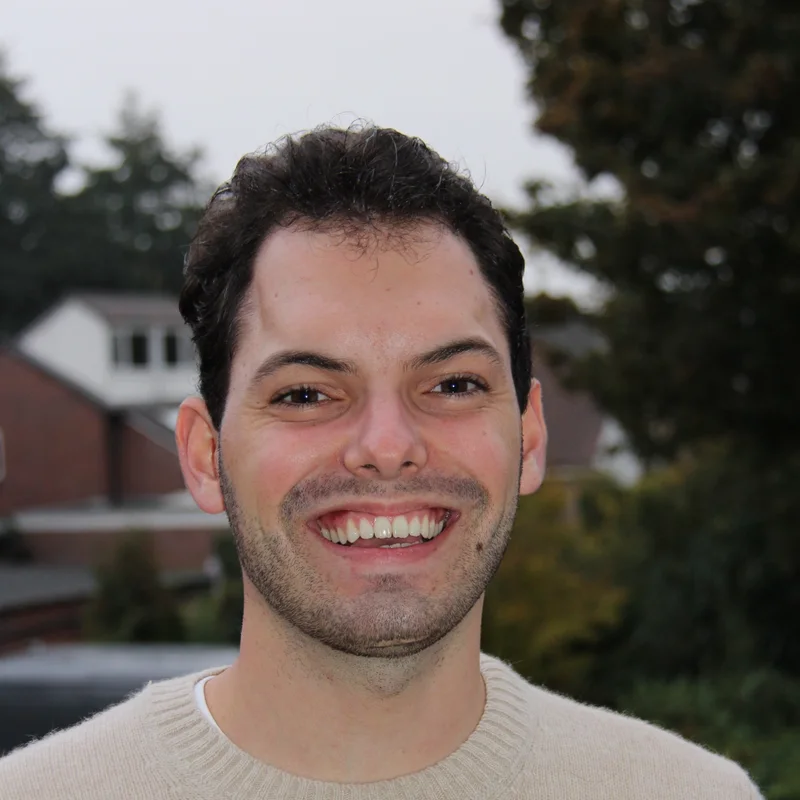
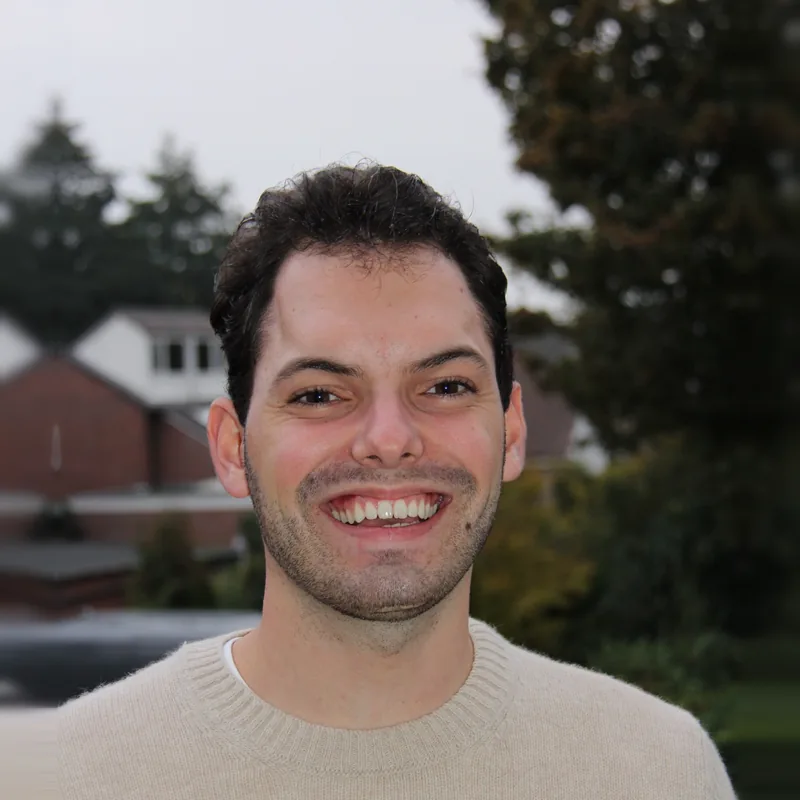
Portret Koen iets uitgezoomd
Claude-Session: https://claude.ai/code/session_01Wjimqdua8ajpxHo7PcBrAk

diff --git a/over-ons.html b/over-ons.html
@@ -25,7 +25,7 @@
 <meta name="theme-color" content="#26458F">
 <link rel="stylesheet" href="/assets/style.css?v=126">
 <script type="application/ld+json">
-{"@context":"https://schema.org","@type":"AboutPage","name":"Over ons","url":"https://avezaatenevers.nl/over-ons.html","about":{"@id":"https://avezaatenevers.nl/#organisatie"},"mainEntity":[{"@type":"Person","name":"Koen Avezaat","jobTitle":"Mede-oprichter en boekhouder","worksFor":{"@id":"https://avezaatenevers.nl/#organisatie"},"image":"https://avezaatenevers.nl/assets/img/koen.webp?v=3","knowsAbout":["Bedrijfskunde","Boekhouding"]},{"@type":"Person","name":"Daan Evers","jobTitle":"Mede-oprichter en boekhouder","worksFor":{"@id":"https://avezaatenevers.nl/#organisatie"},"image":"https://avezaatenevers.nl/assets/img/daan.webp?v=3","knowsAbout":["Accountancy","Control"]}]}
+{"@context":"https://schema.org","@type":"AboutPage","name":"Over ons","url":"https://avezaatenevers.nl/over-ons.html","about":{"@id":"https://avezaatenevers.nl/#organisatie"},"mainEntity":[{"@type":"Person","name":"Koen Avezaat","jobTitle":"Mede-oprichter en boekhouder","worksFor":{"@id":"https://avezaatenevers.nl/#organisatie"},"image":"https://avezaatenevers.nl/assets/img/koen.webp?v=4","knowsAbout":["Bedrijfskunde","Boekhouding"]},{"@type":"Person","name":"Daan Evers","jobTitle":"Mede-oprichter en boekhouder","worksFor":{"@id":"https://avezaatenevers.nl/#organisatie"},"image":"https://avezaatenevers.nl/assets/img/daan.webp?v=3","knowsAbout":["Accountancy","Control"]}]}
 </script>
 </head>
 <body>
@@ -66,7 +66,7 @@
       <p>Dat kan makkelijker. Daarom begonnen we Avezaat &amp; Evers. Bij ons maak je een foto van je bonnetje en staat alles veilig online. En je krijgt één van ons als vaste boekhouder: iemand die weet hoe jouw bedrijf loopt, die je gewoon kunt appen en die zelf aan de bel trekt als er iets geregeld moet worden.</p>
     </div>
     <div class="wij-duo">
-      <figure><img src="/assets/img/koen.webp?v=3" alt="Koen Avezaat" width="800" height="800"><figcaption><strong>Koen Avezaat</strong>Mede-oprichter en boekhouder<span class="wij-bio">Studeerde Bedrijfskunde en haalde daarnaast zijn boekhouddiploma.</span></figcaption></figure>
+      <figure><img src="/assets/img/koen.webp?v=4" alt="Koen Avezaat" width="800" height="800"><figcaption><strong>Koen Avezaat</strong>Mede-oprichter en boekhouder<span class="wij-bio">Studeerde Bedrijfskunde en haalde daarnaast zijn boekhouddiploma.</span></figcaption></figure>
       <figure><img src="/assets/img/daan.webp?v=3" alt="Daan Evers" width="800" height="800"><figcaption><strong>Daan Evers</strong>Mede-oprichter en boekhouder<span class="wij-bio">Studeerde Accountancy &amp; Control.</span></figcaption></figure>
     </div>
   </div>

diff --git a/index.html b/index.html
@@ -288,7 +288,7 @@
       <a class="more" href="/over-ons.html">Meer over ons</a>
     </div>
     <div class="wij-duo">
-      <figure><img src="/assets/img/koen.webp?v=3" alt="Koen Avezaat" width="800" height="800" loading="lazy"><figcaption><strong>Koen Avezaat</strong>Mede-oprichter en boekhouder</figcaption></figure>
+      <figure><img src="/assets/img/koen.webp?v=4" alt="Koen Avezaat" width="800" height="800" loading="lazy"><figcaption><strong>Koen Avezaat</strong>Mede-oprichter en boekhouder</figcaption></figure>
       <figure><img src="/assets/img/daan.webp?v=3" alt="Daan Evers" width="800" height="800" loading="lazy"><figcaption><strong>Daan Evers</strong>Mede-oprichter en boekhouder</figcaption></figure>
     </div>
   </div>

diff --git a/intern/kennismaking.html b/intern/kennismaking.html
@@ -356,7 +356,7 @@
     <h2 class="a a2">Twee boekhouders.<br><span class="accent">Eén vast aanspreekpunt.</span></h2>
     <div class="wie">
       <div class="persoon a a3">
-        <img src="/assets/img/koen.webp?v=3" alt="Koen Avezaat" width="800" height="800">
+        <img src="/assets/img/koen.webp?v=4" alt="Koen Avezaat" width="800" height="800">
         <strong>Koen Avezaat</strong>
         <span>Mede-oprichter &amp; boekhouder</span>
       </div>
